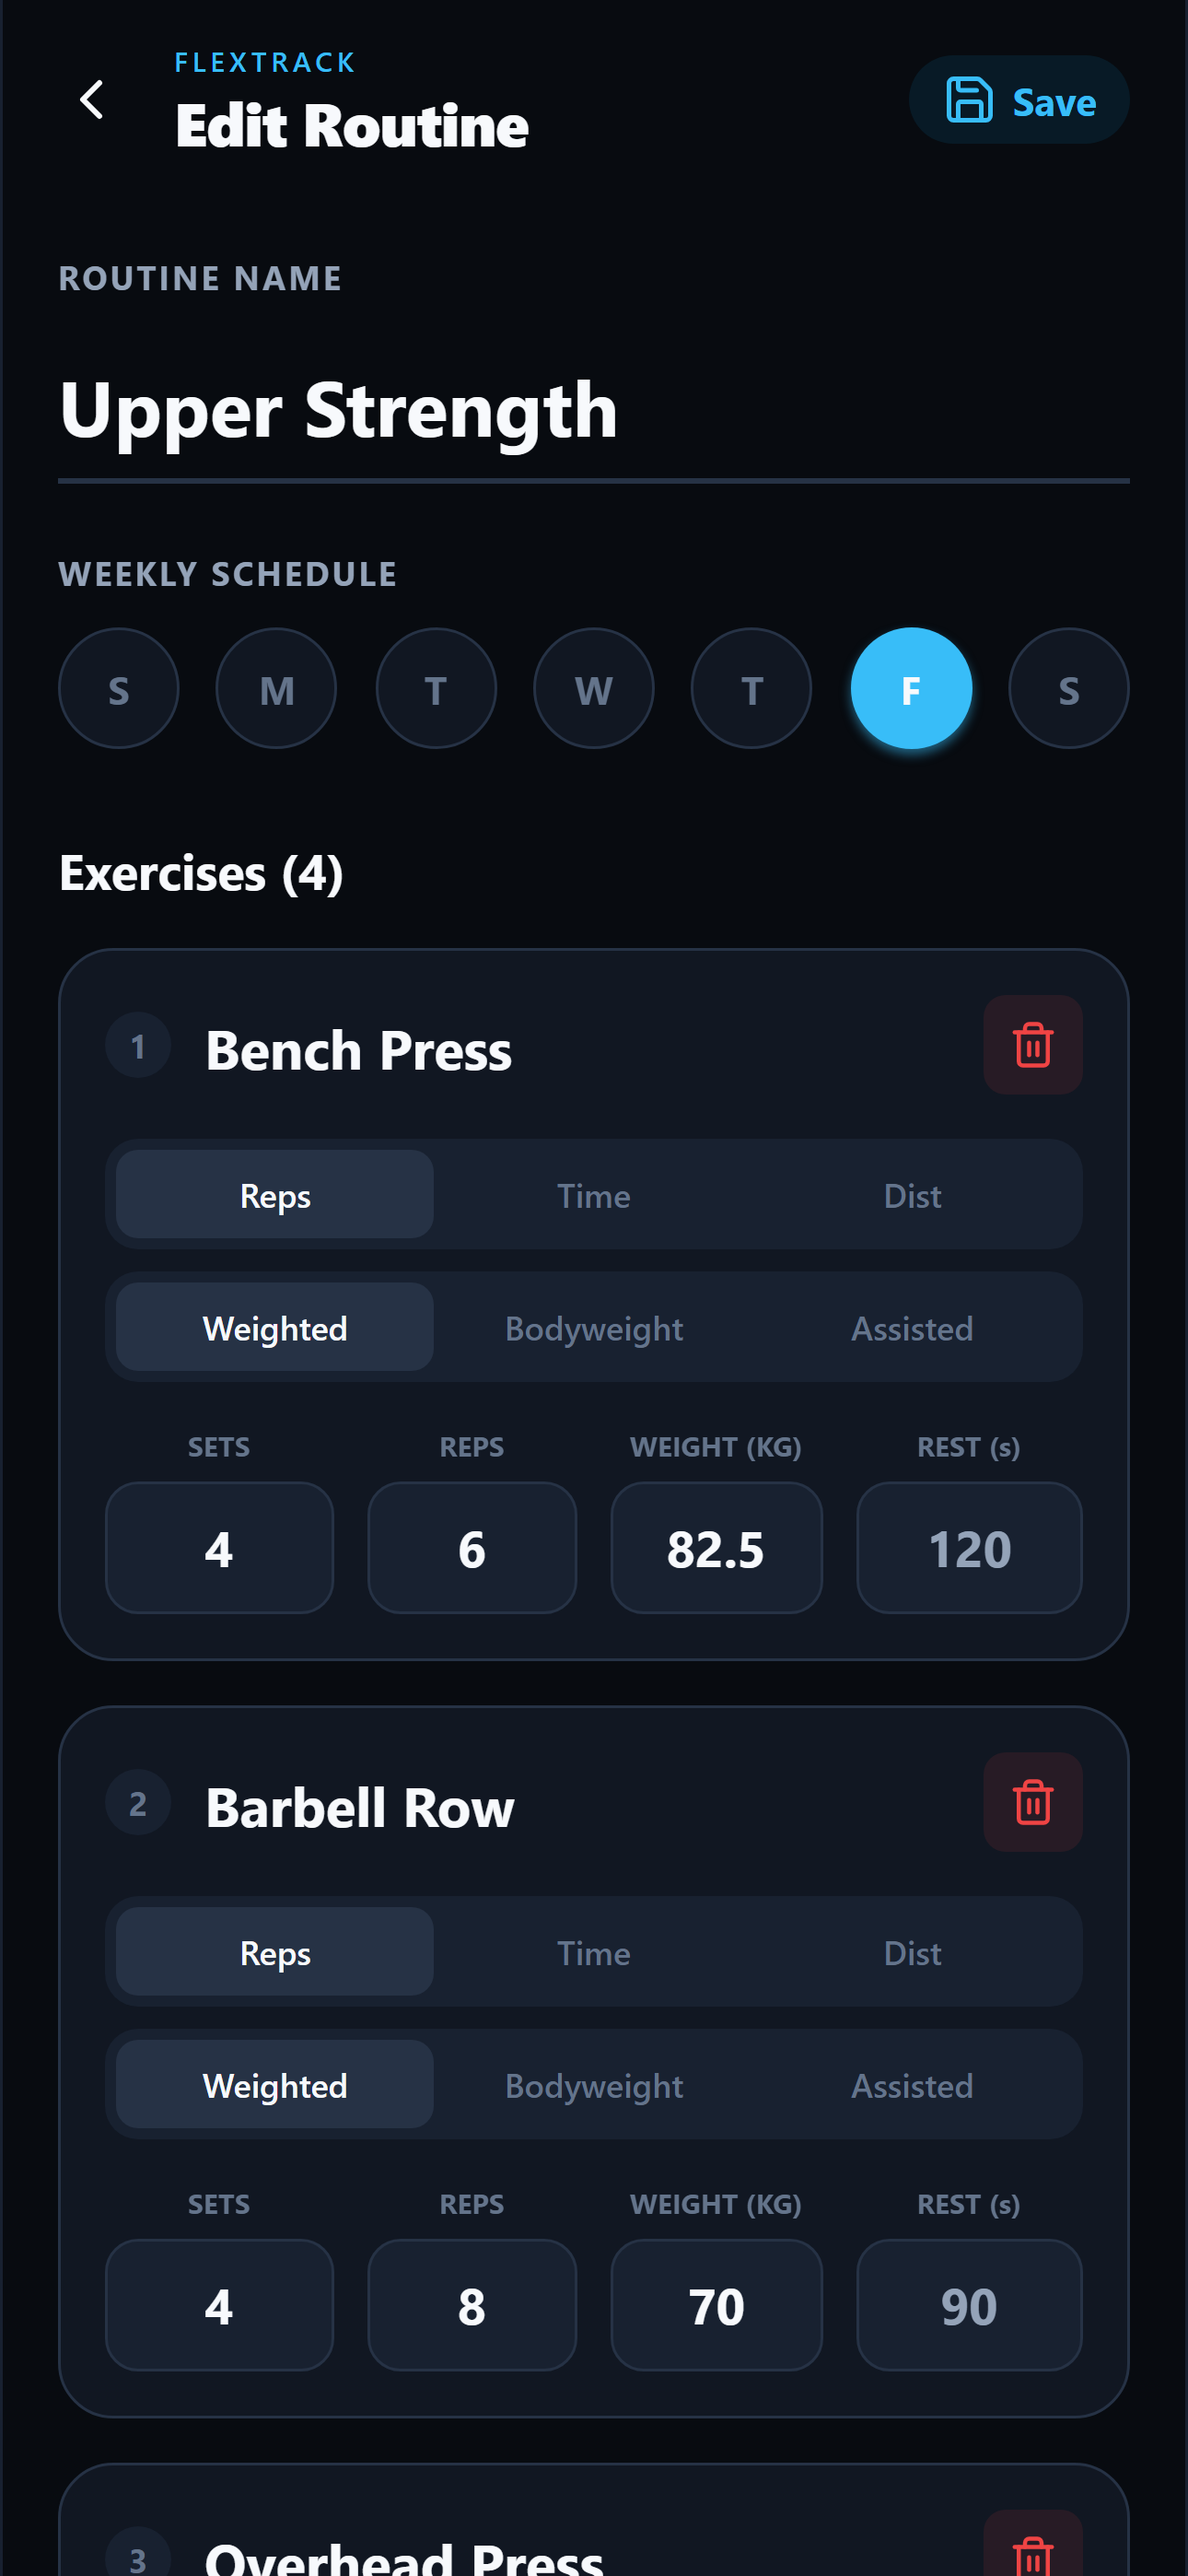
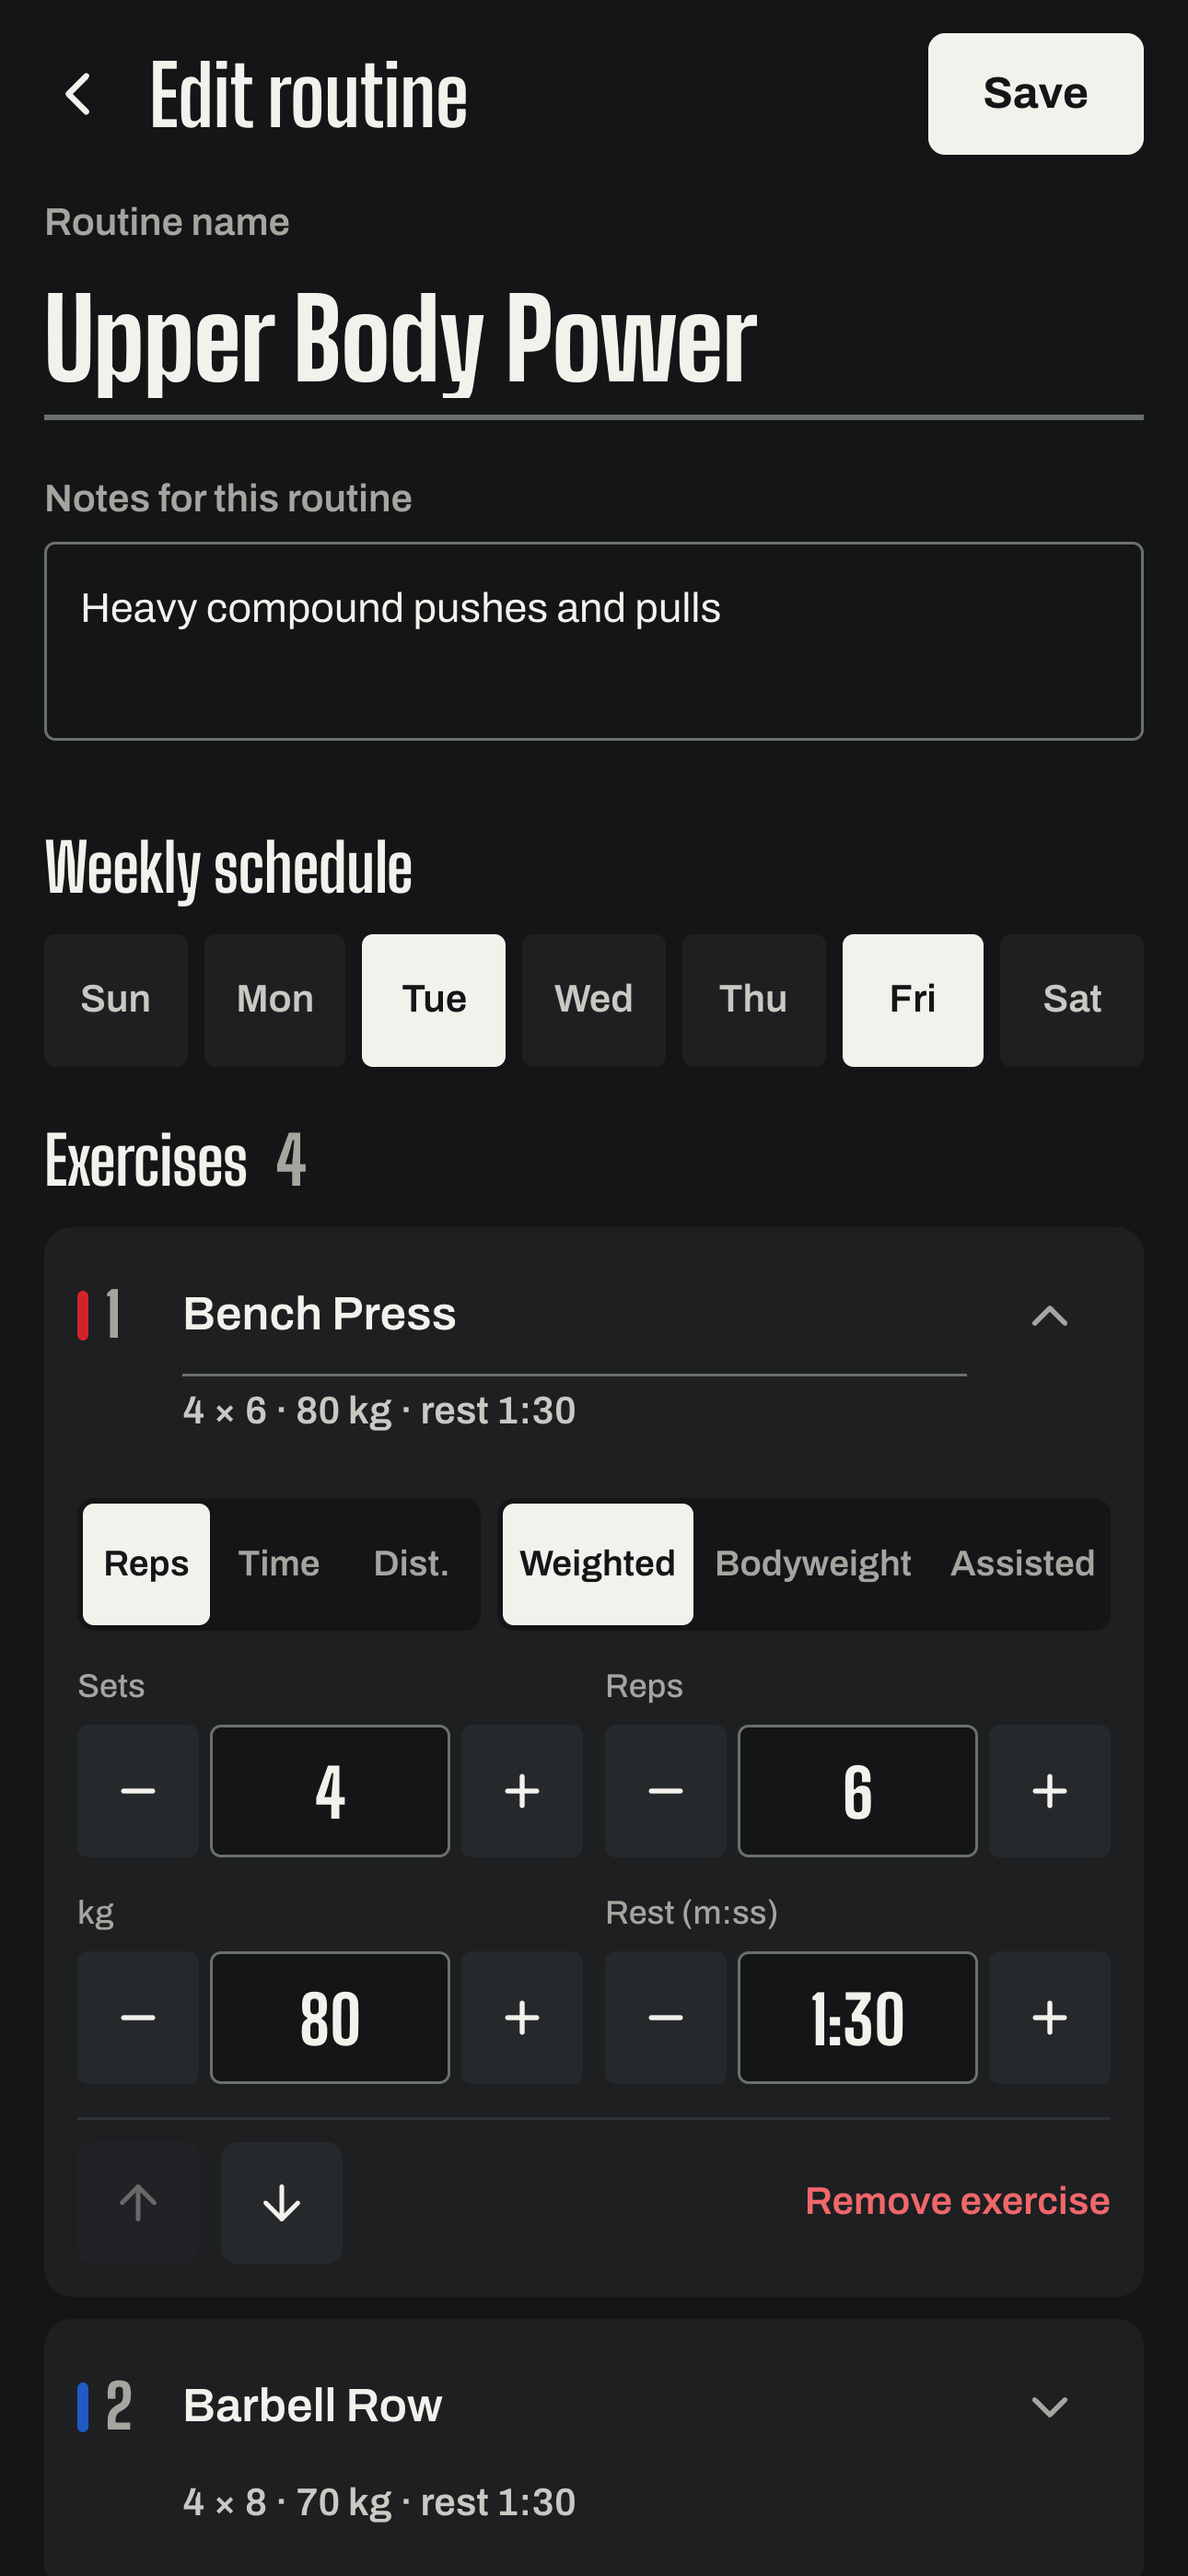
Refresh README screenshots and feature notes for the Calibrated redesign

diff --git a/README.md b/README.md
@@ -28,24 +28,24 @@ FlexTrack is a mobile fitness tracking application that helps you plan, execute,
 <table>
   <tr>
     <td align="center"><b>Today</b></td>
-    <td align="center"><b>Workouts</b></td>
-    <td align="center"><b>Active Workout</b></td>
-    <td align="center"><b>Workout Summary</b></td>
+    <td align="center"><b>Routines</b></td>
+    <td align="center"><b>Active Session</b></td>
+    <td align="center"><b>Session Summary</b></td>
   </tr>
   <tr>
     <td><img src="docs/screenshots/dashboard.png" width="200" alt="Dashboard" /></td>
-    <td><img src="docs/screenshots/workouts.png" width="200" alt="Workouts" /></td>
-    <td><img src="docs/screenshots/active-workout.png" width="200" alt="Active Workout" /></td>
-    <td><img src="docs/screenshots/summary.png" width="200" alt="Workout Summary" /></td>
+    <td><img src="docs/screenshots/workouts.png" width="200" alt="Routines" /></td>
+    <td><img src="docs/screenshots/active-workout.png" width="200" alt="Active session with a loaded barbell" /></td>
+    <td><img src="docs/screenshots/summary.png" width="200" alt="Session summary with a new record" /></td>
   </tr>
   <tr>
-    <td align="center"><b>Template Editor</b></td>
+    <td align="center"><b>Routine Editor</b></td>
     <td align="center"><b>History</b></td>
     <td align="center"><b>Training Progress</b></td>
     <td align="center"><b>Body Metrics</b></td>
   </tr>
   <tr>
-    <td><img src="docs/screenshots/template-editor.png" width="200" alt="Template Editor" /></td>
+    <td><img src="docs/screenshots/template-editor.png" width="200" alt="Routine editor" /></td>
     <td><img src="docs/screenshots/history.png" width="200" alt="History" /></td>
     <td><img src="docs/screenshots/stats.png" width="200" alt="Training Progress" /></td>
     <td><img src="docs/screenshots/body-metrics.png" width="200" alt="Body Metrics" /></td>
@@ -78,7 +78,7 @@ The screenshots use a 430 × 932 mobile viewport and are stored at 3× resolutio
 - Compare a set with values from the previous matching session
 - Mark sets individually or complete all sets in an exercise
 - Update an exercise's default weight during a session
-- Use the built-in plate calculator for externally loaded exercises
+- See the bar loaded plate by plate for the working weight, with ±2.5 kg steppers
 - Run per-set timers and an adjustable rest countdown with vibration feedback
 - Keep the screen awake and guard against accidentally leaving a session
 - Review duration, completed exercises, sets, volume, and per-exercise results after saving
@@ -92,7 +92,7 @@ The screenshots use a 430 × 932 mobile viewport and are stored at 3× resolutio
 
 ### History
 
-- Browse a tappable 28-day activity grid
+- Browse a tappable four-week calendar coloured by what you trained
 - See total workouts, average duration, and current streak
 - Filter by routine or a selected day
 - Review sessions grouped by month with duration, volume, and exercise details
@@ -100,14 +100,14 @@ The screenshots use a 430 × 932 mobile viewport and are stored at 3× resolutio
 ### Progress
 
 - Derives personal records from the exercise data actually logged
-- Shows a 14-day consistency chart and Push / Pull / Legs / Cardio training split
-- Charts the last eight progression points for a selected exercise
+- Shows a 12-week heat strip of weekly sets per Push / Pull / Legs / Cardio
+- Charts progression for a selected exercise, with records marked
 - Chooses metrics for each modality, including weight, estimated 1RM, reps, assistance, duration, distance, and pace
-- Logs height and body weight, calculates BMI, and charts the five latest weight entries
+- Logs height and body weight, explains BMI in words, and charts weight over 30 days, 90 days or all time
 
 ### Navigation and feedback
 
-- Bottom tabs for Today, Workouts, History, and Progress
+- Bottom tabs for Today, Routines, History, and Progress
 - Central Quick Start sheet for launching routines, logging completed activity, or creating a routine
 - Haptic feedback for navigation, workout starts, and completed sets on supported devices
 - Focused full-screen layouts for routine editing, active workouts, summaries, and Quick Log
@@ -124,7 +124,7 @@ The screenshots use a 430 × 932 mobile viewport and are stored at 3× resolutio
 | Web bundler | Vite 6 + `react-native-web` |
 | Navigation | Manual view-state (`useState`) in `App.tsx` |
 | Persistence | `@react-native-async-storage/async-storage` |
-| Charts | `react-native-chart-kit` + `react-native-svg` |
+| Charts | Hand-built with `react-native-svg` |
 | Date utilities | `date-fns` |
 | Icons | `lucide-react-native` |
 | Haptics | `expo-haptics` |
